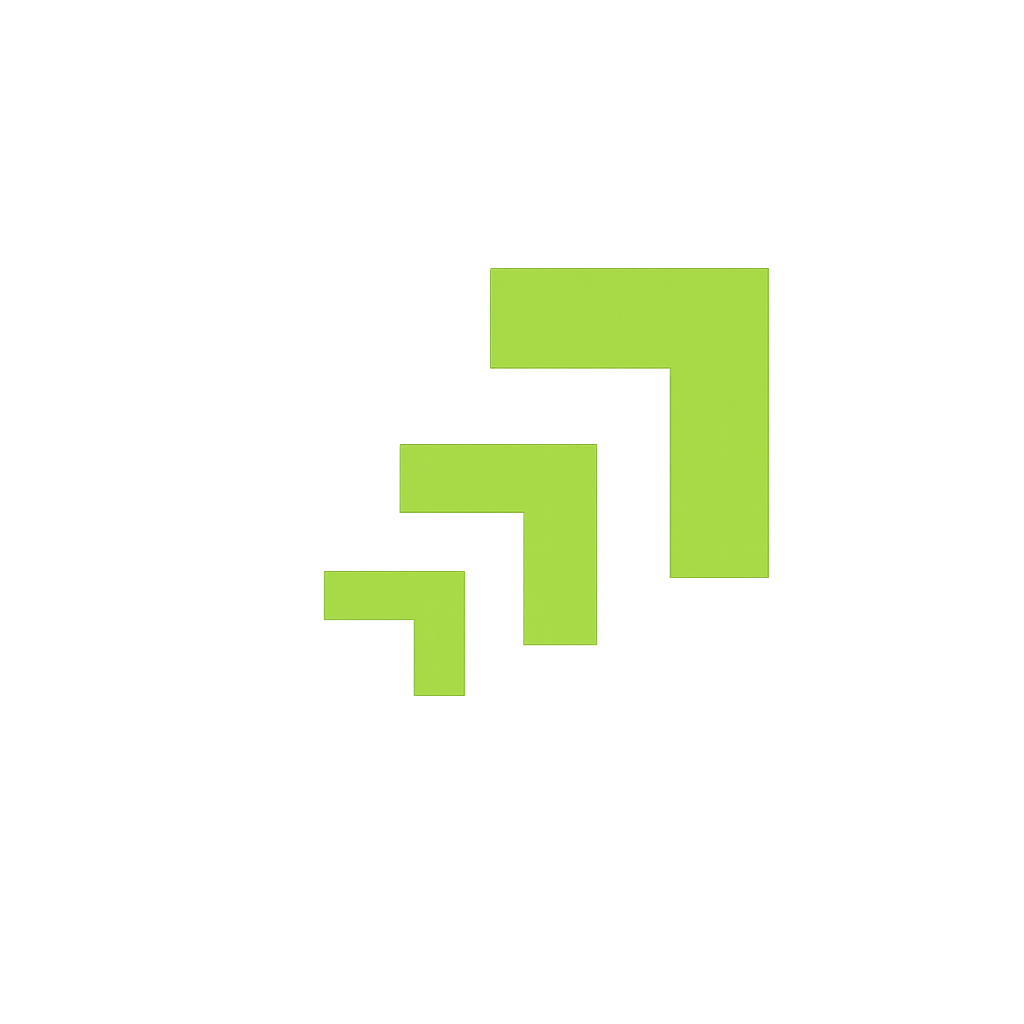
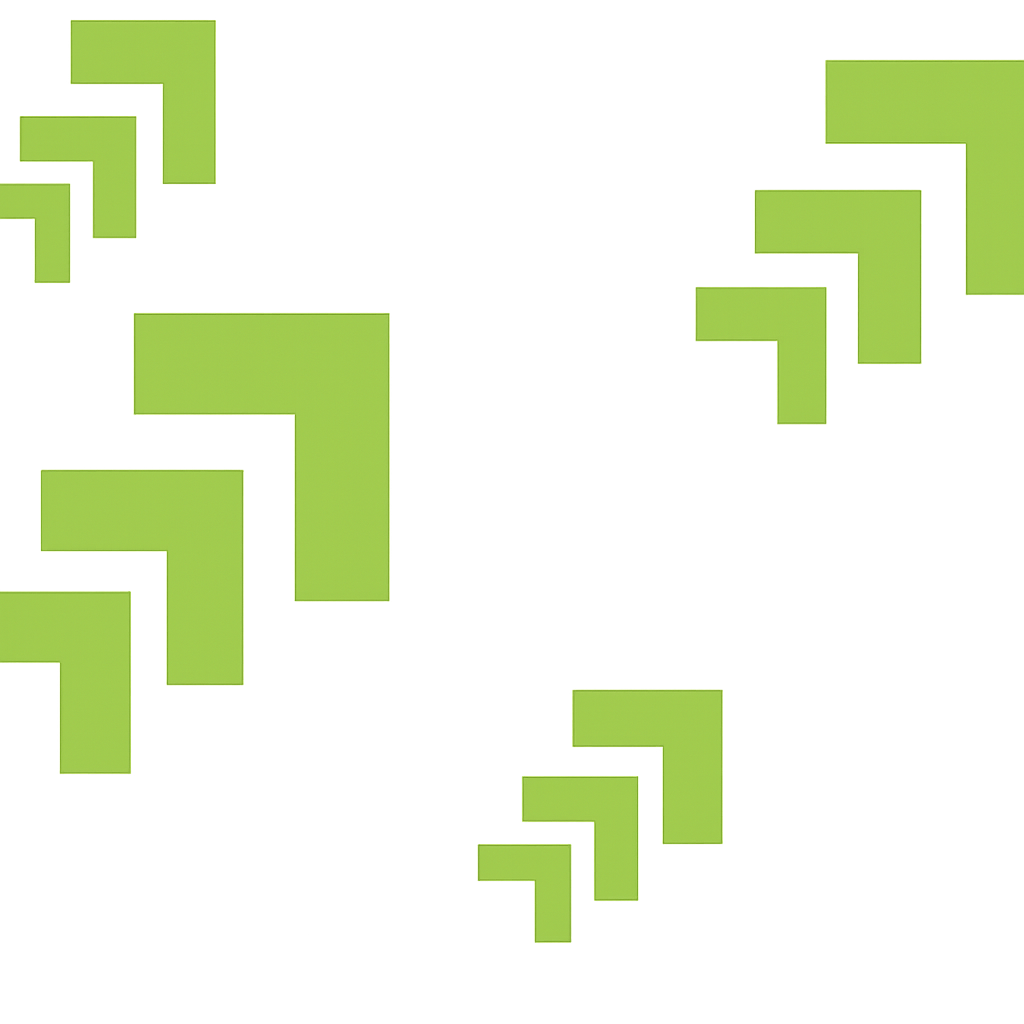
mouse trail

diff --git a/apps/web/src/components/public/CursorTrail.tsx b/apps/web/src/components/public/CursorTrail.tsx
@@ -1,0 +1,185 @@
+'use client';
+
+import { useEffect } from 'react';
+import gsap from 'gsap';
+
+/*
+ * CursorTrail
+ * -----------
+ * Pass a CSS selector that matches the section you want the trail on.
+ * The component itself renders nothing — all DOM is imperative and
+ * appended directly to document.body so CSS transforms on ancestors
+ * NEVER break fixed-position trail nodes.
+ *
+ * Usage:
+ *   Add data-cursor-trail to any section element.
+ *   Render <CursorTrail selector="[data-cursor-trail]" /> anywhere in the tree.
+ */
+
+interface Props {
+  selector?: string;
+  imageSrc?: string;
+  size?: number;
+}
+
+const MAX_TRAIL   = 12;
+const TRAIL_EVERY = 55;   /* ms between trail spawns */
+const OFFSET_X    = 18;
+const OFFSET_Y    = 18;
+const MAX_ROT     = 8;
+
+export default function CursorTrail({
+  selector = '[data-cursor-trail]',
+  imageSrc = '/cursor-trail.png',
+  size = 96,
+}: Props) {
+
+  useEffect(() => {
+    /* Resolve absolute URL once — avoids relative-URL failures on body-appended nodes */
+    const src = `${window.location.origin}${imageSrc}`;
+
+    /* ── helper: build a DOM node the way GSAP expects (no inline transform) ── */
+    const makeNode = (z: number, nodeSize: number): HTMLDivElement => {
+      const el = document.createElement('div');
+      el.style.position          = 'fixed';
+      el.style.top               = '0';
+      el.style.left              = '0';
+      el.style.width             = `${nodeSize}px`;
+      el.style.height            = `${nodeSize}px`;
+      el.style.pointerEvents     = 'none';
+      el.style.userSelect        = 'none';
+      el.style.willChange        = 'transform, opacity';
+      el.style.zIndex            = String(z);
+      el.style.backgroundImage   = `url('${src}')`;
+      el.style.backgroundSize    = 'contain';
+      el.style.backgroundRepeat  = 'no-repeat';
+      el.style.backgroundPosition= 'center';
+      el.style.opacity           = '0';
+      /* CRITICAL: do not set transform here — GSAP must own it from the start */
+      return el;
+    };
+
+    /* ── Find section ── */
+    const section = document.querySelector<HTMLElement>(selector);
+    if (!section) return;
+
+    /* ── State ── */
+    let inside    = false;
+    let trails: HTMLDivElement[]  = [];
+    let lastSpawn = 0;
+    let mx = 0, my = 0, prevMx = 0;
+    let velRot = 0;
+
+    /* ── Main image element ── */
+    const el = makeNode(9999, size);
+    document.body.appendChild(el);
+
+    /* Start safely off-screen (top-left corner is visible!) */
+    gsap.set(el, { x: -size * 2, y: -size * 2, scale: 0.85, rotation: 0, opacity: 0 });
+
+    /* ── quickTo handles — the heart of the smooth lag ── */
+    const qX   = gsap.quickTo(el, 'x',        { duration: 0.5,  ease: 'power3.out' });
+    const qY   = gsap.quickTo(el, 'y',        { duration: 0.5,  ease: 'power3.out' });
+    const qRot = gsap.quickTo(el, 'rotation', { duration: 0.55, ease: 'power3.out' });
+    const qSc  = gsap.quickTo(el, 'scale',    { duration: 0.35, ease: 'power3.out' });
+    const qOp  = gsap.quickTo(el, 'opacity',  { duration: 0.25, ease: 'power2.out' });
+
+    /* ── Spawn a trail ghost ── */
+    const spawnTrail = (x: number, y: number, rot: number) => {
+      if (trails.length >= MAX_TRAIL) {
+        const dead = trails.shift();
+        dead?.parentNode?.removeChild(dead);
+      }
+      const node = makeNode(9998, Math.round(size * 0.72));
+      document.body.appendChild(node);
+      trails.push(node);
+
+      gsap.set(node, { x: x + OFFSET_X, y: y + OFFSET_Y, rotation: rot * 0.35, scale: 0.7, opacity: 0.38 });
+      gsap.to(node, {
+        opacity: 0,
+        scale: 0.42,
+        duration: 0.5,
+        ease: 'power2.out',
+        onComplete: () => {
+          node.parentNode?.removeChild(node);
+          trails = trails.filter(n => n !== node);
+        },
+      });
+    };
+
+    /* ── GSAP ticker: 60fps position + rotation update ── */
+    const tick: gsap.TickerCallback = () => {
+      if (!inside) return;
+      const vx = mx - prevMx;
+      prevMx = mx;
+      const targetRot = Math.max(-MAX_ROT, Math.min(MAX_ROT, vx * 2.5));
+      velRot = velRot * 0.82 + targetRot * 0.18;
+      qX(mx + OFFSET_X);
+      qY(my + OFFSET_Y);
+      qRot(velRot);
+    };
+    gsap.ticker.add(tick);
+
+    /* ── Event: mouse move ── */
+    const onMove = (e: MouseEvent) => {
+      mx = e.clientX;
+      my = e.clientY;
+      const now = performance.now();
+      if (now - lastSpawn < TRAIL_EVERY) return;
+      lastSpawn = now;
+      /* Read GSAP's own x/y — not the raw cursor, giving trails the laggy feel */
+      const cx = gsap.getProperty(el, 'x') as number;
+      const cy = gsap.getProperty(el, 'y') as number;
+      spawnTrail(cx - OFFSET_X, cy - OFFSET_Y, velRot);
+    };
+
+    /* ── Event: cursor enters section ── */
+    const onEnter = (e: MouseEvent) => {
+      /* Snap to cursor immediately so image doesn't fly in from off-screen */
+      mx = e.clientX; my = e.clientY; prevMx = e.clientX;
+      gsap.set(el, { x: mx + OFFSET_X, y: my + OFFSET_Y });
+      inside = true;
+      section.style.cursor = 'none';
+      qOp(1);
+      qSc(1);
+    };
+
+    /* ── Event: cursor leaves section ── */
+    const onLeave = () => {
+      inside = false;
+      section.style.cursor = '';
+      qOp(0);
+      qSc(0.85);
+      velRot = 0;
+      qRot(0);
+      /* Fade out all trails */
+      const copy = [...trails];
+      trails = [];
+      copy.forEach(n => gsap.to(n, {
+        opacity: 0, duration: 0.18, ease: 'power2.in',
+        onComplete: () => n.parentNode?.removeChild(n),
+      }));
+    };
+
+    section.addEventListener('mousemove',  onMove);
+    section.addEventListener('mouseenter', onEnter as EventListener);
+    section.addEventListener('mouseleave', onLeave);
+
+    /* ── Cleanup ── */
+    return () => {
+      section.removeEventListener('mousemove',  onMove);
+      section.removeEventListener('mouseenter', onEnter as EventListener);
+      section.removeEventListener('mouseleave', onLeave);
+      section.style.cursor = '';
+      gsap.ticker.remove(tick);
+      gsap.killTweensOf(el);
+      el.parentNode?.removeChild(el);
+      /* remove surviving trail nodes */
+      trails.forEach(n => n.parentNode?.removeChild(n));
+      trails = [];
+    };
+  // eslint-disable-next-line react-hooks/exhaustive-deps
+  }, []);
+
+  return null;
+}

diff --git a/apps/web/src/components/public/WhySection.tsx b/apps/web/src/components/public/WhySection.tsx
@@ -27,6 +27,107 @@ export default function WhySection() {
   const bodyRef       = useRef<HTMLParagraphElement>(null);
   const triggeredRef  = useRef(false);
 
+  /* ── Cursor trail ── */
+  useEffect(() => {
+    const section = sectionRef.current;
+    if (!section) return;
+
+    const SRC        = `${window.location.origin}/cursor-trail.png`;
+    const SIZE       = 96;
+    const TRAIL_SIZE = 70;
+    const MAX_TRAIL  = 12;
+    const EVERY_MS   = 55;
+    const OFFSET     = 18;
+    const MAX_ROT    = 8;
+
+    const makeNode = (s: number, z: number) => {
+      const d = document.createElement('div');
+      d.style.cssText = `position:fixed;top:0;left:0;width:${s}px;height:${s}px;`
+        + `pointer-events:none;user-select:none;will-change:transform,opacity;`
+        + `z-index:${z};background:url('${SRC}') center/contain no-repeat;opacity:0;`;
+      return d;
+    };
+
+    const main = makeNode(SIZE, 9999);
+    document.body.appendChild(main);
+    gsap.set(main, { x: -SIZE * 3, y: -SIZE * 3, scale: 0.85, rotation: 0, opacity: 0 });
+
+    const qX  = gsap.quickTo(main, 'x',        { duration: 0.5,  ease: 'power3.out' });
+    const qY  = gsap.quickTo(main, 'y',        { duration: 0.5,  ease: 'power3.out' });
+    const qRt = gsap.quickTo(main, 'rotation', { duration: 0.55, ease: 'power3.out' });
+    const qSc = gsap.quickTo(main, 'scale',    { duration: 0.35, ease: 'power3.out' });
+    const qOp = gsap.quickTo(main, 'opacity',  { duration: 0.25, ease: 'power2.out' });
+
+    let inside = false, mx = 0, my = 0, prevMx = 0, velRot = 0, lastSpawn = 0;
+    let trails: HTMLDivElement[] = [];
+
+    const spawnTrail = (x: number, y: number, rot: number) => {
+      if (trails.length >= MAX_TRAIL) {
+        const d = trails.shift(); d?.parentNode?.removeChild(d);
+      }
+      const node = makeNode(TRAIL_SIZE, 9998);
+      document.body.appendChild(node);
+      trails.push(node);
+      gsap.set(node, { x: x + OFFSET, y: y + OFFSET, rotation: rot * 0.35, scale: 0.7, opacity: 0.36 });
+      gsap.to(node, { opacity: 0, scale: 0.4, duration: 0.5, ease: 'power2.out',
+        onComplete: () => { node.parentNode?.removeChild(node); trails = trails.filter(n => n !== node); }
+      });
+    };
+
+    const tick: gsap.TickerCallback = () => {
+      if (!inside) return;
+      const vx = mx - prevMx; prevMx = mx;
+      velRot = velRot * 0.82 + Math.max(-MAX_ROT, Math.min(MAX_ROT, vx * 2.5)) * 0.18;
+      qX(mx + OFFSET); qY(my + OFFSET); qRt(velRot);
+    };
+    gsap.ticker.add(tick);
+
+    const onMove = (e: MouseEvent) => {
+      mx = e.clientX; my = e.clientY;
+      const now = performance.now();
+      if (now - lastSpawn < EVERY_MS) return;
+      lastSpawn = now;
+      spawnTrail(
+        (gsap.getProperty(main, 'x') as number) - OFFSET,
+        (gsap.getProperty(main, 'y') as number) - OFFSET,
+        velRot
+      );
+    };
+
+    const onEnter = (e: MouseEvent) => {
+      mx = e.clientX; my = e.clientY; prevMx = mx;
+      gsap.set(main, { x: mx + OFFSET, y: my + OFFSET });
+      inside = true;
+      section.style.cursor = 'none';
+      qOp(1); qSc(1);
+    };
+
+    const onLeave = () => {
+      inside = false;
+      section.style.cursor = '';
+      qOp(0); qSc(0.85); velRot = 0; qRt(0);
+      const copy = [...trails]; trails = [];
+      copy.forEach(n => gsap.to(n, { opacity: 0, duration: 0.15,
+        onComplete: () => n.parentNode?.removeChild(n) }));
+    };
+
+    section.addEventListener('mousemove',  onMove);
+    section.addEventListener('mouseenter', onEnter as EventListener);
+    section.addEventListener('mouseleave', onLeave);
+
+    return () => {
+      section.removeEventListener('mousemove',  onMove);
+      section.removeEventListener('mouseenter', onEnter as EventListener);
+      section.removeEventListener('mouseleave', onLeave);
+      section.style.cursor = '';
+      gsap.ticker.remove(tick);
+      gsap.killTweensOf(main);
+      main.parentNode?.removeChild(main);
+      trails.forEach(n => n.parentNode?.removeChild(n));
+      trails = [];
+    };
+  }, []);
+
   /* ── rAF-throttled scroll parallax ── */
   useEffect(() => {
     const card    = cardRef.current;
@@ -131,7 +232,7 @@ export default function WhySection() {
   return (
     <section
       ref={sectionRef}
-      className="bg-white flex items-center justify-center overflow-hidden"
+      className="bg-white flex items-center justify-center"
       style={{ padding: 'clamp(32px,5vw,64px) clamp(12px,3vw,32px)' }}
     >
       <div ref={cardRef} className="why-card">